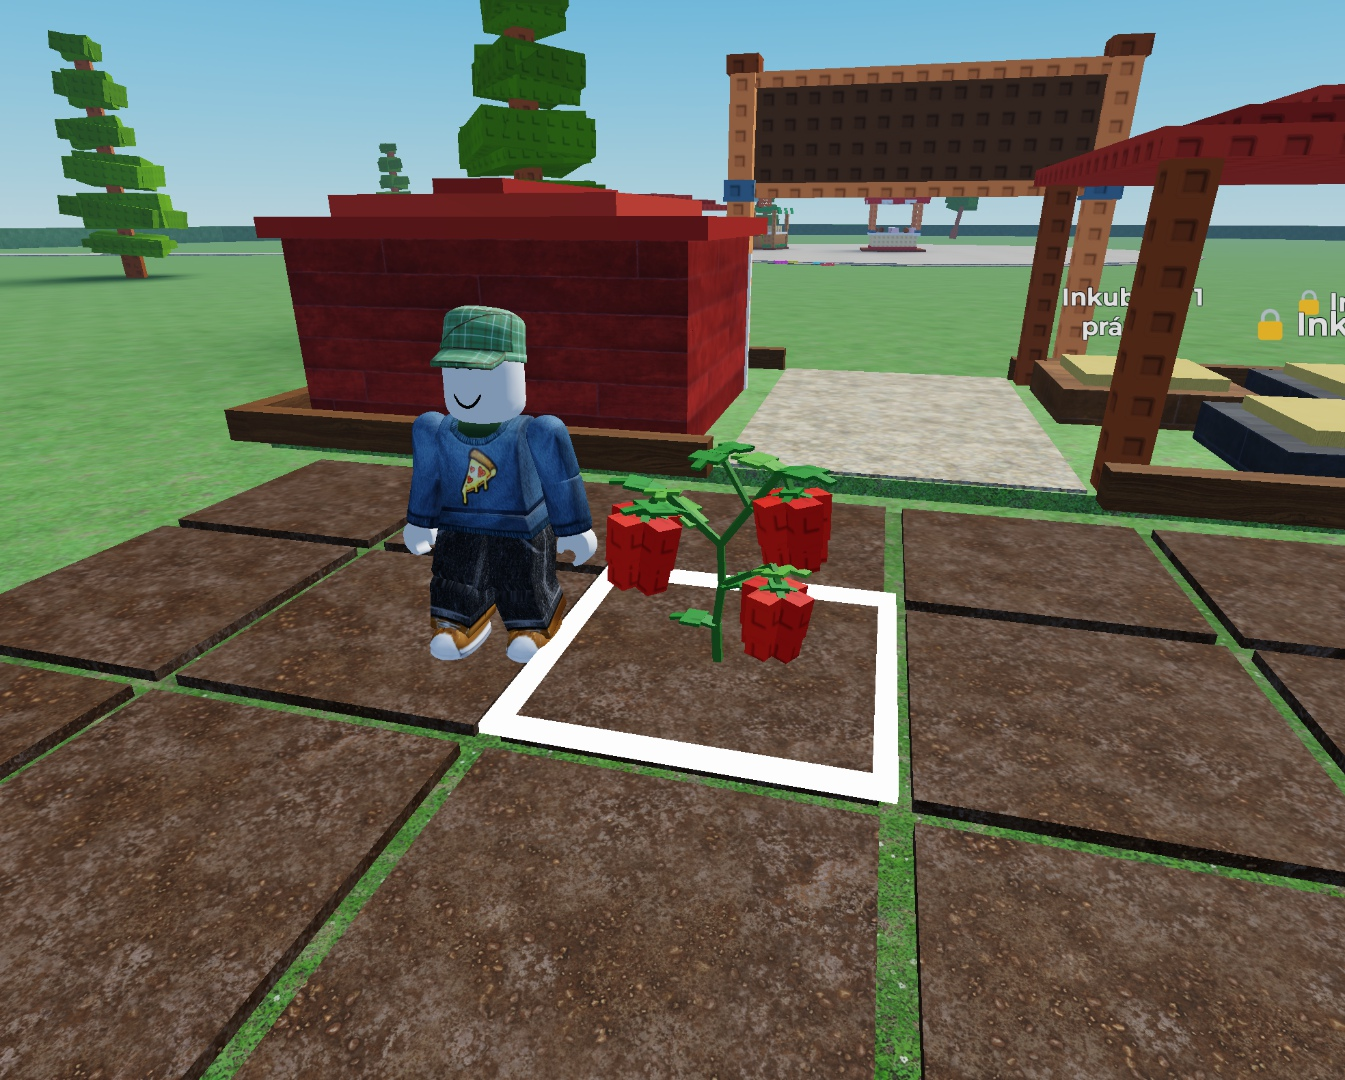
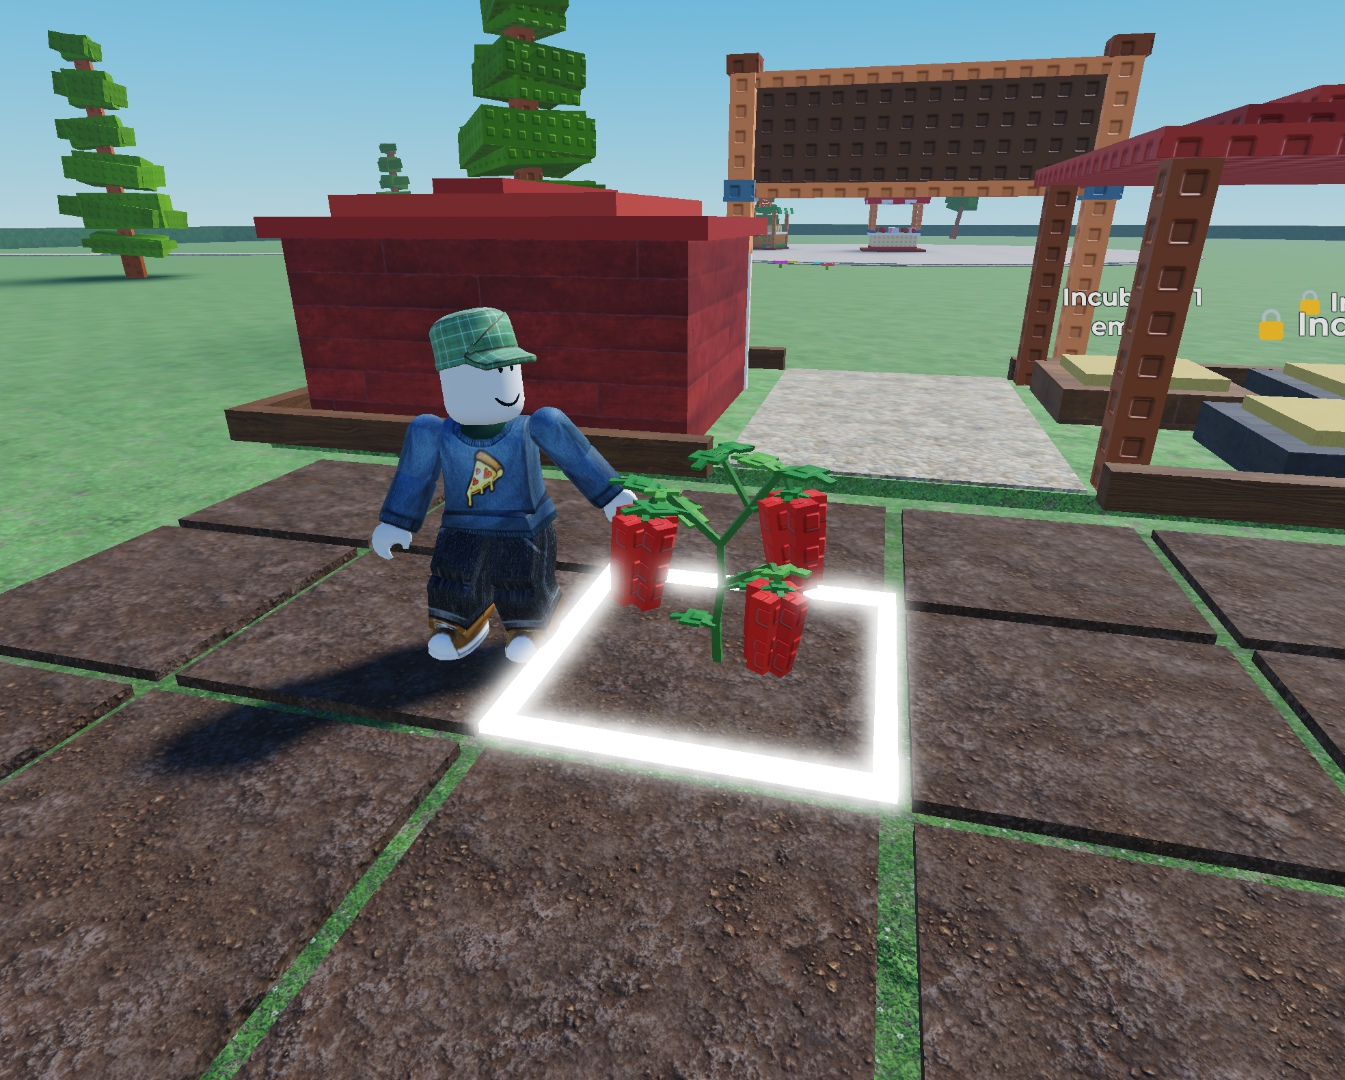
Lengthen and slim paprika fruit silhouette

diff --git a/docs/plants/PEPPER.md b/docs/plants/PEPPER.md
@@ -25,7 +25,9 @@ Use Pawvest's opaque colored stud-block style. The supplied illustration's expos
 - Broad square shoulders beneath a small green calyx, a short bent green stalk, and a pendant orientation.
 - Four overlapping elongated lobes form one solid fruit with shallow vertical grooves and a subtly tapered body. The four blunt
   lower tips remain discernible; avoid a pointed chilli tip, a round tomato, or a cluster of separate balls.
-- Target about **0.85–1.0 studs wide and 1.1–1.3 studs long** at standard mass; tune against the actual gameplay camera.
+- **Ales's shape correction (2026-11-09):** lengthen and slim the fruit so it cannot be mistaken for Tomato. The revised study
+  stretches the fruit bodies by **27% vertically** and narrows them by **14%**, with matching narrower calyxes. The three
+  standard-mass bodies measure **0.83–0.96 studs wide and 1.22–1.40 studs long** (length/width about **1.46**).
   Reserve foliage gaps around the shoulders and lower lobes.
 - All three peppers finish red. Green → warm orange → red is a ripening shortcut; widening shoulders and filling lobes must
   also communicate progress. Seeded variation changes relative length/width and hanging angle while preserving the bell shape.
@@ -52,11 +54,12 @@ harvest mass, including Sorter, uses cube-root dimensional scaling chiefly on fr
 ## Implementation and review boundary
 
 The static study uses `PlantKit`: **88 Parts** (seven stems, 36 leaf plates, 45 fruit pieces in three 15-Part groups), or
-**3,168 plant-only Parts** for 36 squares. Its standard-size height is **3.38 studs** and maximum ground radius **1.77 studs**
+**3,168 plant-only Parts** for 36 squares. Its standard-size height is **3.38 studs** and maximum ground radius **1.71 studs**
 (rounded up). Each fruit's four diagonally oriented shoulder columns and narrower lower lobes make actual silhouette grooves.
-These baseline measurements do not validate future seed/mass extremes or production performance. The existing playtest's server
-log was clear; client warnings were limited to the Studio MCP camera-reset notices. The disposable study was removed and the
-camera/HUD restored without stopping Ales's pre-existing playtest.
+These baseline measurements do not validate future seed/mass extremes or production performance. The playtest's server
+log was clear; client warnings were limited to the Studio MCP camera-reset notices. The revised silhouette was checked in a fresh
+playtest, with the same soil square and camera composition. The disposable study was removed, camera/HUD restored and the
+agent-started playtest stopped after validation.
 
 Use `PlantKit` and a future `PepperPlant` recipe through the shared `PlantGrowth` system and existing reviewer. Target at most
 **90 full-detail Parts** (3,240 plant-only Parts for 36 squares; a budget, not a measured result). Use a cheaper direct-built mid

diff --git a/docs/ROADMAP.md b/docs/ROADMAP.md
@@ -61,7 +61,7 @@ A design change found while building goes docs → ROADMAP → code, in that ord
 | CG5 | Frost Grape growth art | CG5a/b approved; explicit fruit slots | Studio checks pass; CG5c field integration next | – |
 | CG6 | Corn growth art | CG6a–d complete | Studio checks and desktop CPU sample pass; real phone and second client confirmed by Ales 2026-11-09 | – |
 | CG7 | Lettuce growth art | CG7a (A, crisp head, chosen) and CG7b/c recipe + field registration built | Studio checks pass (bounds, seeds, sizes, seek, proxies, PlotView path); five stills and colour/density fix approved by Ales 2026-11-09; real phone and second client open | – |
-| CG8 | Pepper / Paprika growth art | [No-pole upright bush](plants/PEPPER.md); CG8a mature study built, silhouette review next | Static baseline Studio-checked (88 Parts, 3.38 studs tall, radius 1.77); animation and field integration not built | – |
+| CG8 | Pepper / Paprika growth art | [No-pole upright bush](plants/PEPPER.md); CG8a mature study revised with longer/slimmer fruit, silhouette review next | Static baseline Studio-checked (88 Parts, 3.38 studs tall, radius 1.71); animation and field integration not built | – |
 | M6b, S11, M7, trading | Final balancing, bonus stages, monetization (drop D2), trading | – | – | – |
 
 ## Next
